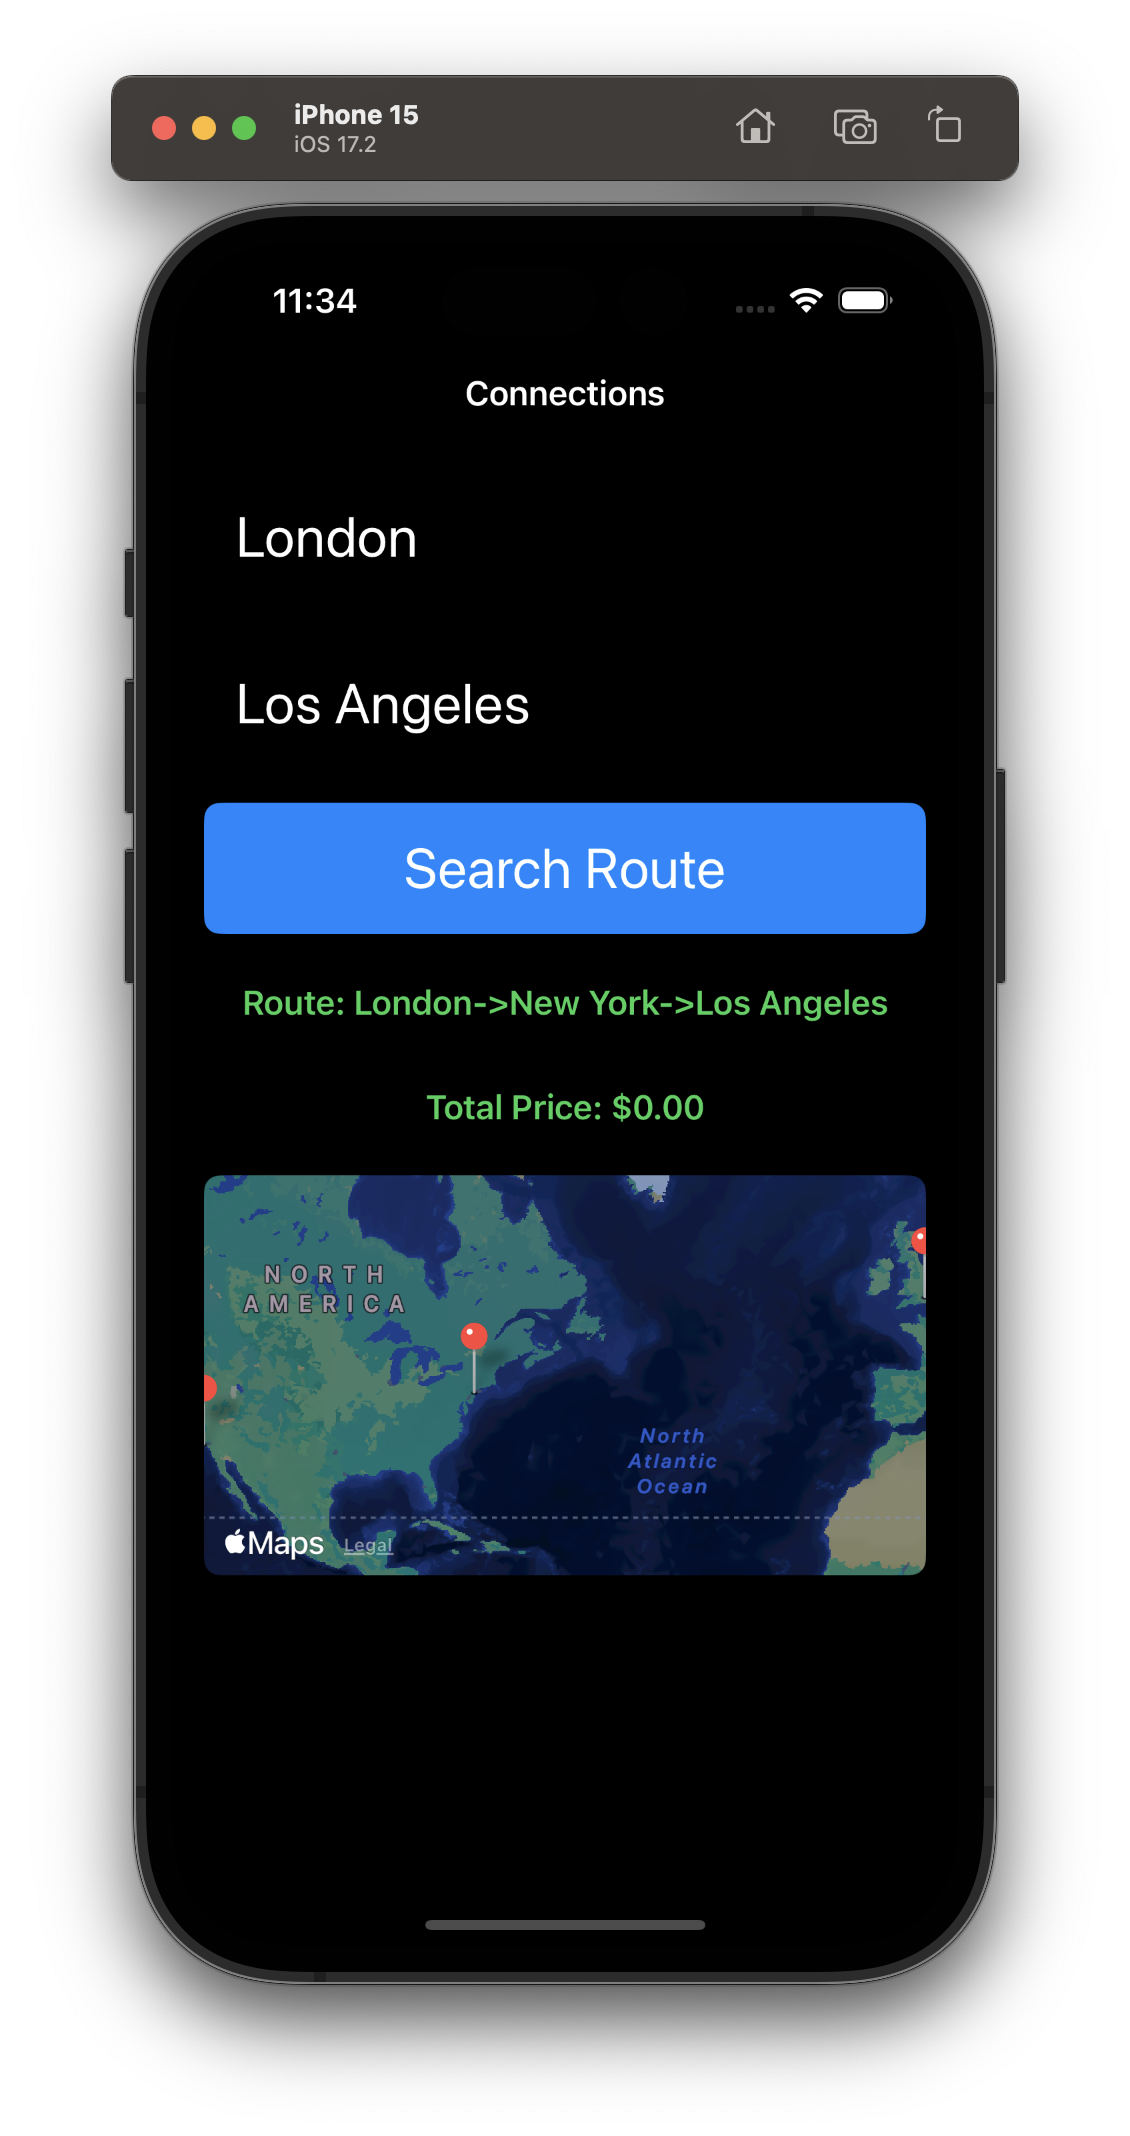
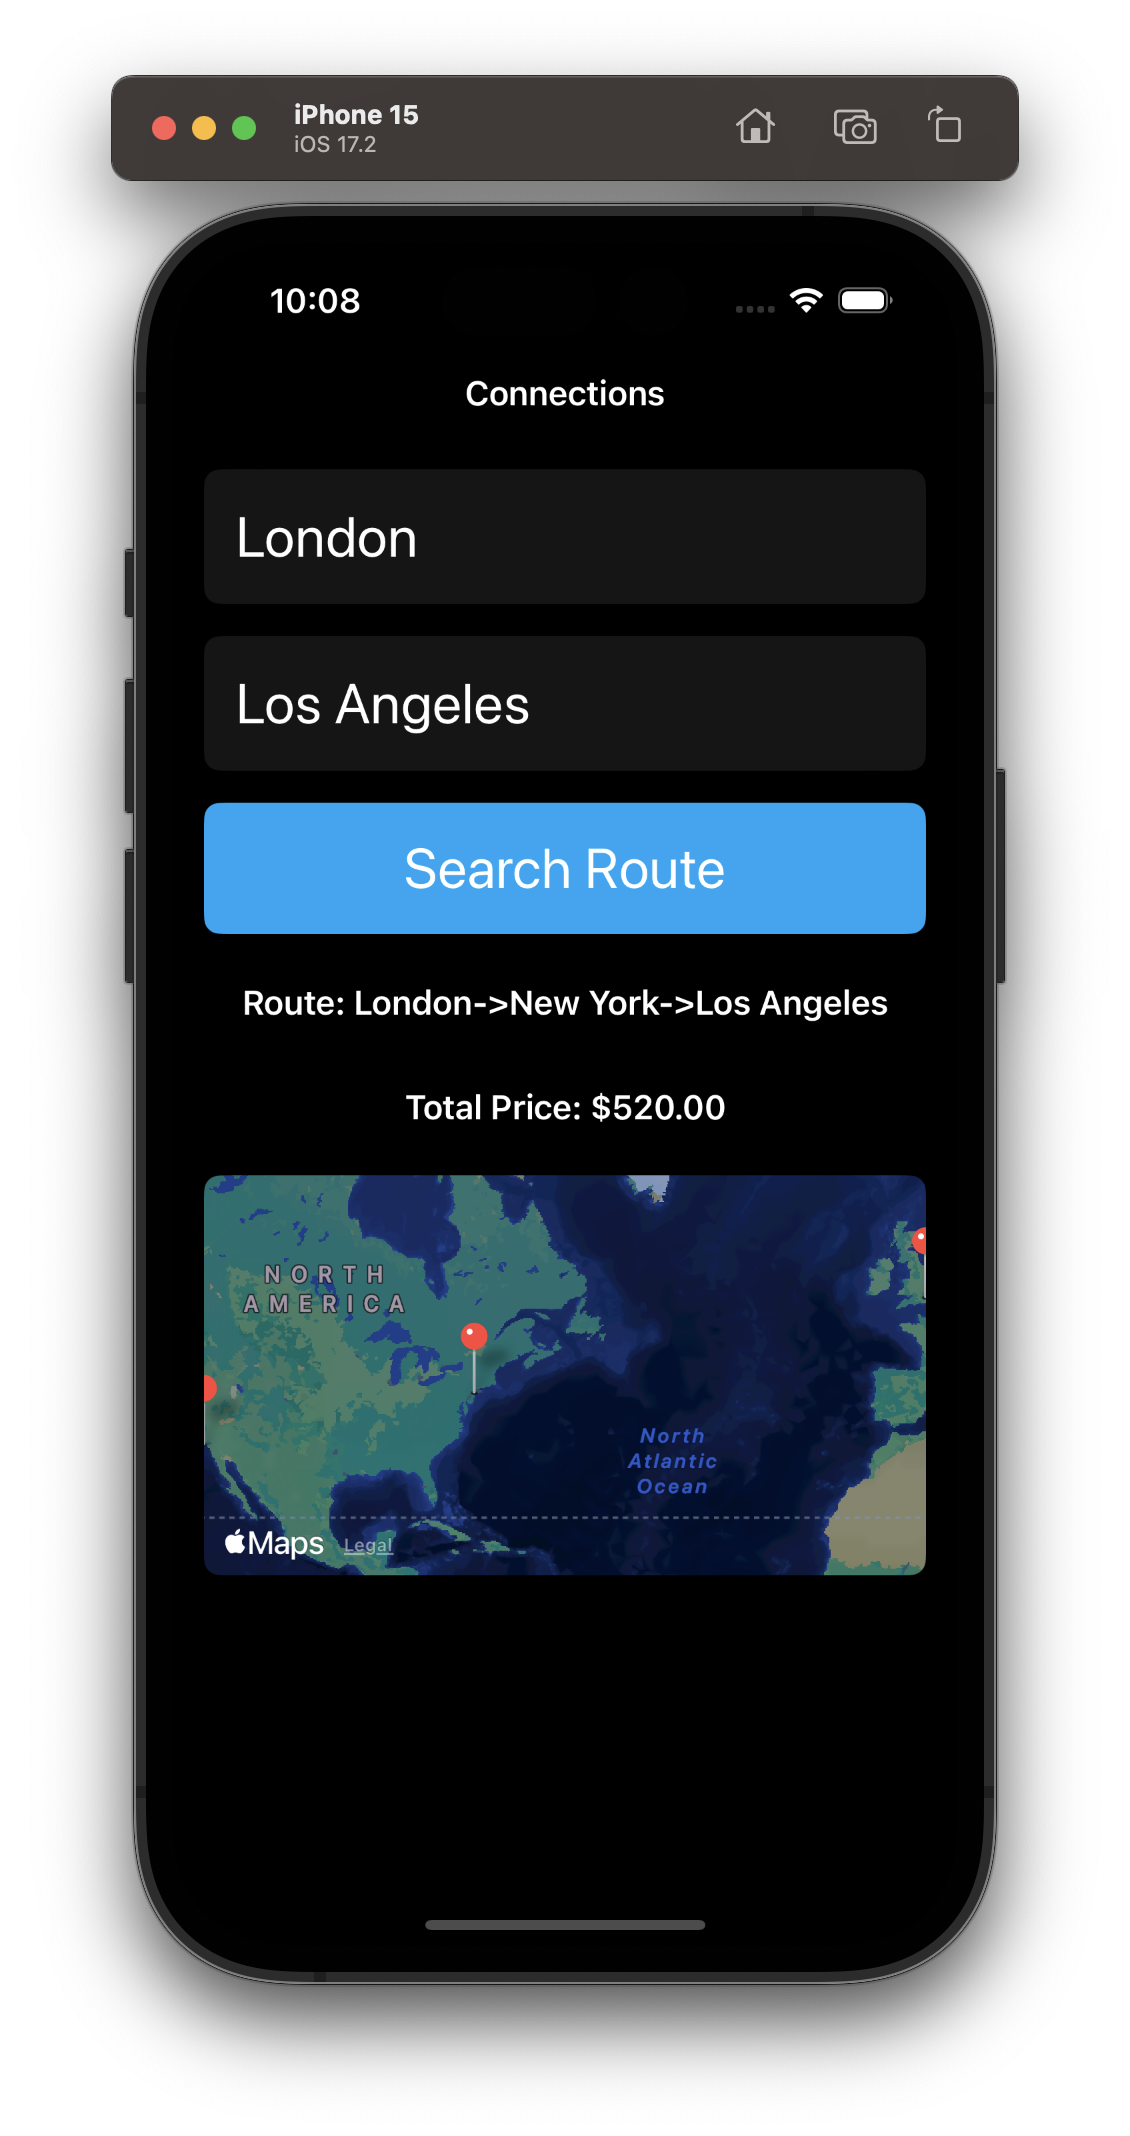
Updated readme

Changed region(s): [[0.1549, 0.3708, 0.8363, 0.5253], [0.2478, 0.1236, 0.3097, 0.1545]]

diff --git a/TripPlanner/TripPlanner/Classes/UI/ConnectionsView/views/ConnectionResultsView.swift b/TripPlanner/TripPlanner/Classes/UI/ConnectionsView/views/ConnectionResultsView.swift
@@ -1,3 +1,4 @@
+
 import SwiftUI
 import MapKit
 
@@ -10,18 +11,14 @@ struct ConnectionResultsView: View {
         VStack(alignment: .leading, spacing: 16) {
             Text(viewModel.path)
                 .font(.headline)
-                .foregroundColor(.green)
                 .padding(.vertical, 8)
                 .frame(maxWidth: .infinity)
-                .background(RoundedRectangle(cornerRadius: 8).fill(Color.black))
                 .padding(.horizontal, 16)
             
             Text(viewModel.price)
                 .font(.headline)
-                .foregroundColor(.green)
                 .padding(.vertical, 8)
                 .frame(maxWidth: .infinity)
-                .background(RoundedRectangle(cornerRadius: 8).fill(Color.black))
                 .padding(.horizontal, 16)
             
             Map(coordinateRegion: $region, annotationItems: viewModel.annotations) { annotation in
@@ -34,11 +31,14 @@ struct ConnectionResultsView: View {
                 self.showError = viewModel != .none
             })
             .frame(maxWidth: .infinity, maxHeight: 200)
-                .cornerRadius(8)
-        }.alert(viewModel.errorViewModel.title, isPresented: $showError, actions: {
-        }, message: {
+            .cornerRadius(8)
+        }
+        .alert(viewModel.errorViewModel.title, isPresented: $showError, actions: {}, message: {
             Text(viewModel.errorViewModel.message)
         })
     }
 }
+
+
+
 

diff --git a/TripPlanner/TripPlanner/Classes/UI/ConnectionsView/views/ConnectionsView.swift b/TripPlanner/TripPlanner/Classes/UI/ConnectionsView/views/ConnectionsView.swift
@@ -8,7 +8,7 @@ struct ConnectionsView: View {
             VStack(alignment: .leading, spacing: 16) {
                 if viewModel.isEmpty {
                     ProgressView()
-                        .progressViewStyle(CircularProgressViewStyle(tint: .gray))
+                        .progressViewStyle(CircularProgressViewStyle(tint: Color.appGray))
                         .frame(maxWidth: .infinity)
                 }
                 
@@ -25,7 +25,7 @@ struct ConnectionsView: View {
             .navigationBarTitle(viewModel.title, displayMode: .inline)
         }
         .navigationViewStyle(StackNavigationViewStyle())
-         .onAppear {
+        .onAppear {
             viewModel.fetchConnections()
         }
     }

diff --git a/TripPlanner/TripPlanner/Classes/UI/ConnectionsView/views/ConnectionSearchButtonView.swift b/TripPlanner/TripPlanner/Classes/UI/ConnectionsView/views/ConnectionSearchButtonView.swift
@@ -6,11 +6,11 @@ struct ConnectionSearchButtonView: View {
     
     var body: some View {
         Button(viewModel.title) { action() }
-        .font(.title)
-        .frame(maxWidth: .infinity)
-        .padding()
-        .foregroundColor(.white)
-        .background(Color.blue)
-        .cornerRadius(8)
+            .font(.title)
+            .frame(maxWidth: .infinity)
+            .padding()
+            .foregroundColor(.white)
+            .background(Color.appBlue)
+            .cornerRadius(8)
     }
 }

diff --git a/TripPlanner/TripPlanner/Classes/UI/ConnectionsView/helpers/RouteFinder.swift b/TripPlanner/TripPlanner/Classes/UI/ConnectionsView/helpers/RouteFinder.swift
@@ -42,7 +42,7 @@ struct RouteFinder {
 
             // Updates costs and parents for neighboring cities
             for connection in connectionsFrom(city: current, connectionsData: connectionsData) {
-                let totalCost = costs[current] ?? 0.0 + connection.price
+                let totalCost = (costs[current] ?? 0.0) + connection.price
 
                 if totalCost < costs[connection.to] ?? 0.0 {
                     costs[connection.to] = totalCost

diff --git a/TripPlanner/TripPlanner/Classes/UI/ConnectionsView/views/ConnectionFieldView.swift b/TripPlanner/TripPlanner/Classes/UI/ConnectionsView/views/ConnectionFieldView.swift
@@ -7,7 +7,7 @@ struct ConnectionFieldView: View {
         TextField(viewModel.placeHolder, text: $viewModel.searchTerm)
             .padding()
             .font(.title)
-            .background(Color.black)
+            .background(Color.appBlack)
             .cornerRadius(8)
             .foregroundColor(.white)
     }

diff --git a/TripPlanner/TripPlanner/Classes/UI/ConnectionsView/views/ColorPallete.swift b/TripPlanner/TripPlanner/Classes/UI/ConnectionsView/views/ColorPallete.swift
@@ -1,0 +1,8 @@
+
+import SwiftUI
+
+extension Color {
+    static let appBlue = Color(red: 0.0, green: 0.647, blue: 0.961)
+    static let appGray = Color(red: 0.557, green: 0.557, blue: 0.576)
+    static let appBlack = Color(red: 0.082, green: 0.082, blue: 0.082)
+}

diff --git a/README.md b/README.md
@@ -27,19 +27,9 @@ Navigation is not covered in this demo.
 
 ## User Interface
 
-### iPhone
-
 | Light  | Dark |
 | ------------- | ------------- |
 | ![iPhone15 Light](readmefiles/iPhone_15_light.png)  | ![iPhone15 Dark](readmefiles/iPhone_15_dark.png)  |
-| ![iPhoneSE Light](readmefiles/iPhone_SE_light.png)  | ![iPhoneSE Dark](readmefiles/iPhone_SE_dark.png) |
-
-
-### iPad
-
-| Portrait  | Landscape |
-| ------------- | ------------- |
-| ![iPad Portrait](readmefiles/iPad_portrait.png) | ![iPad Landscape](readmefiles/iPad_landscape.png) | 
 
 
 ## Test Coverage 
